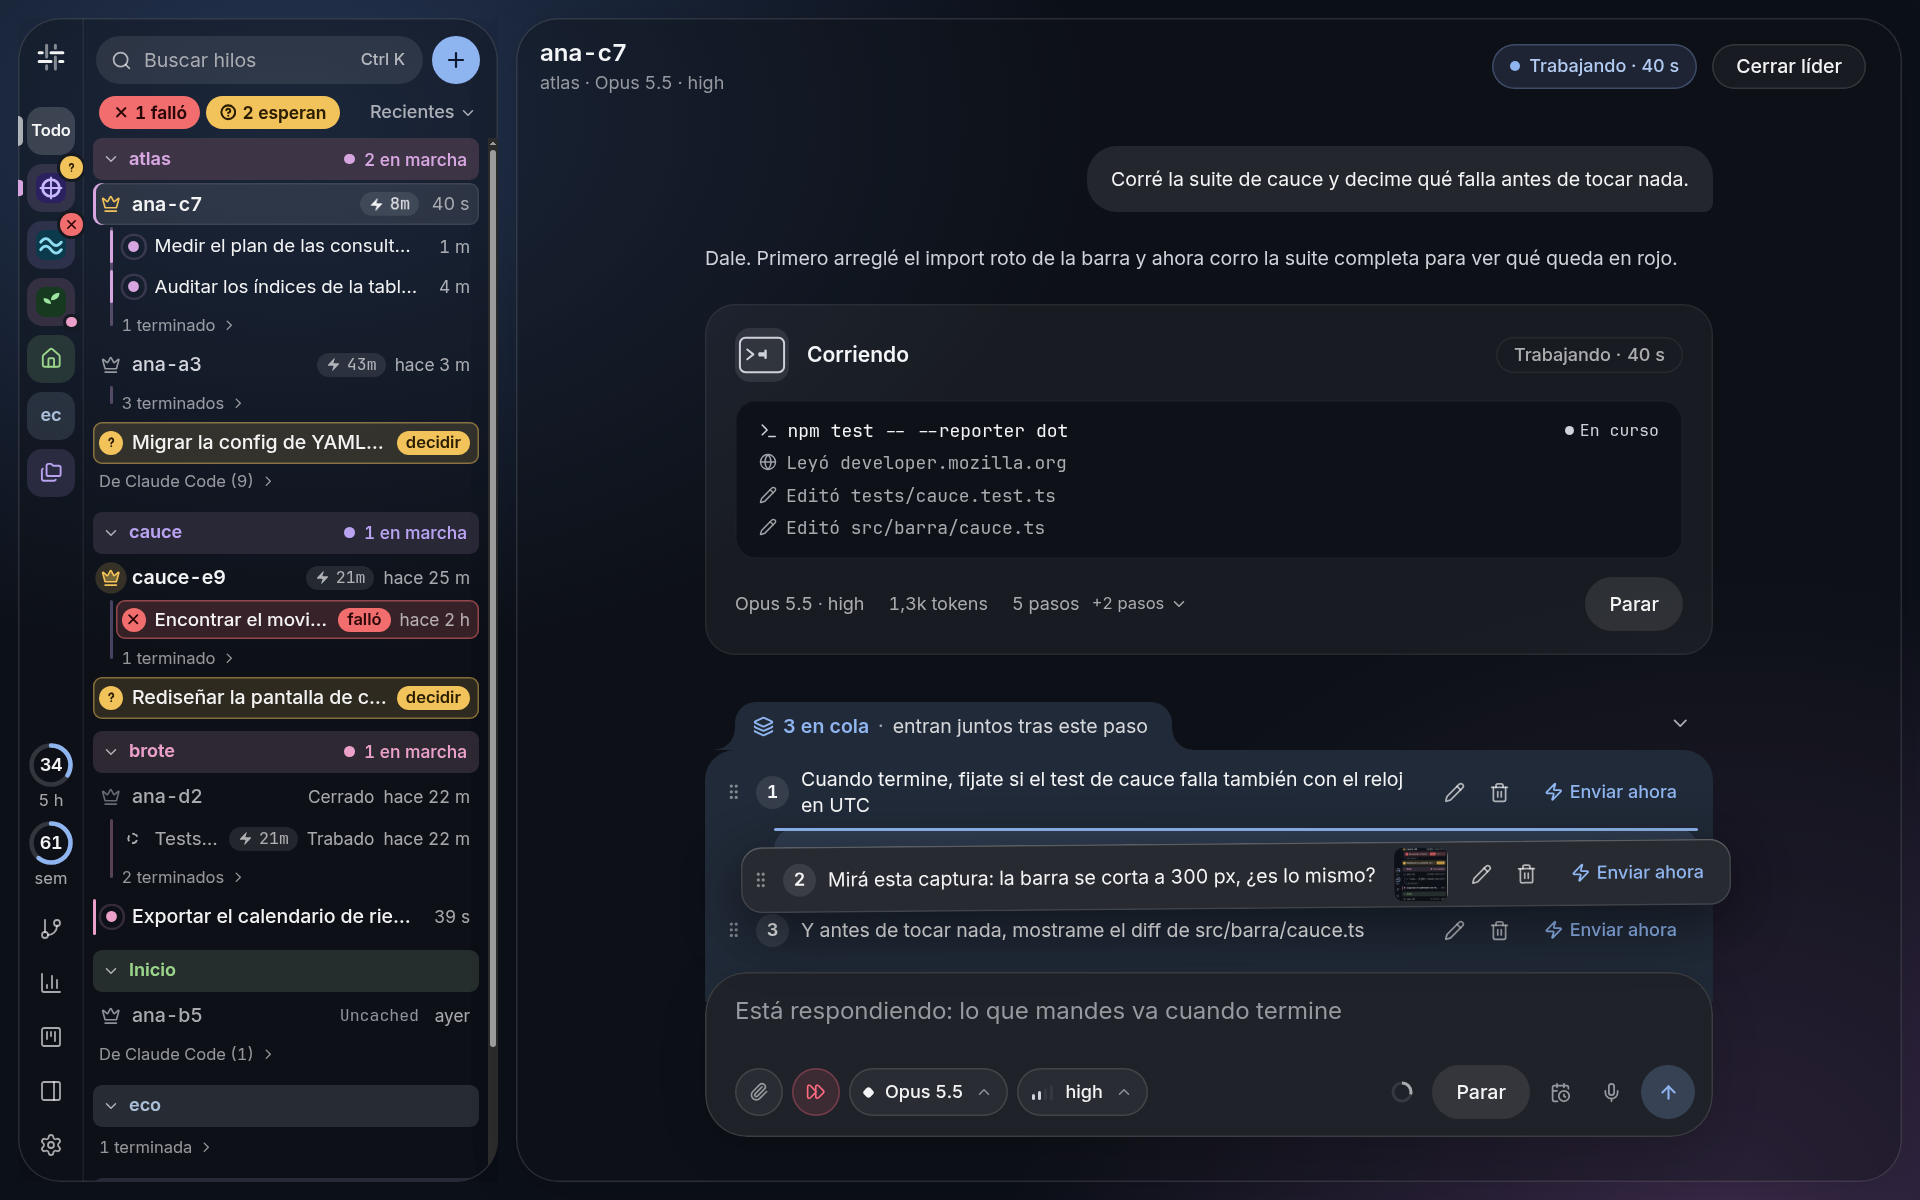
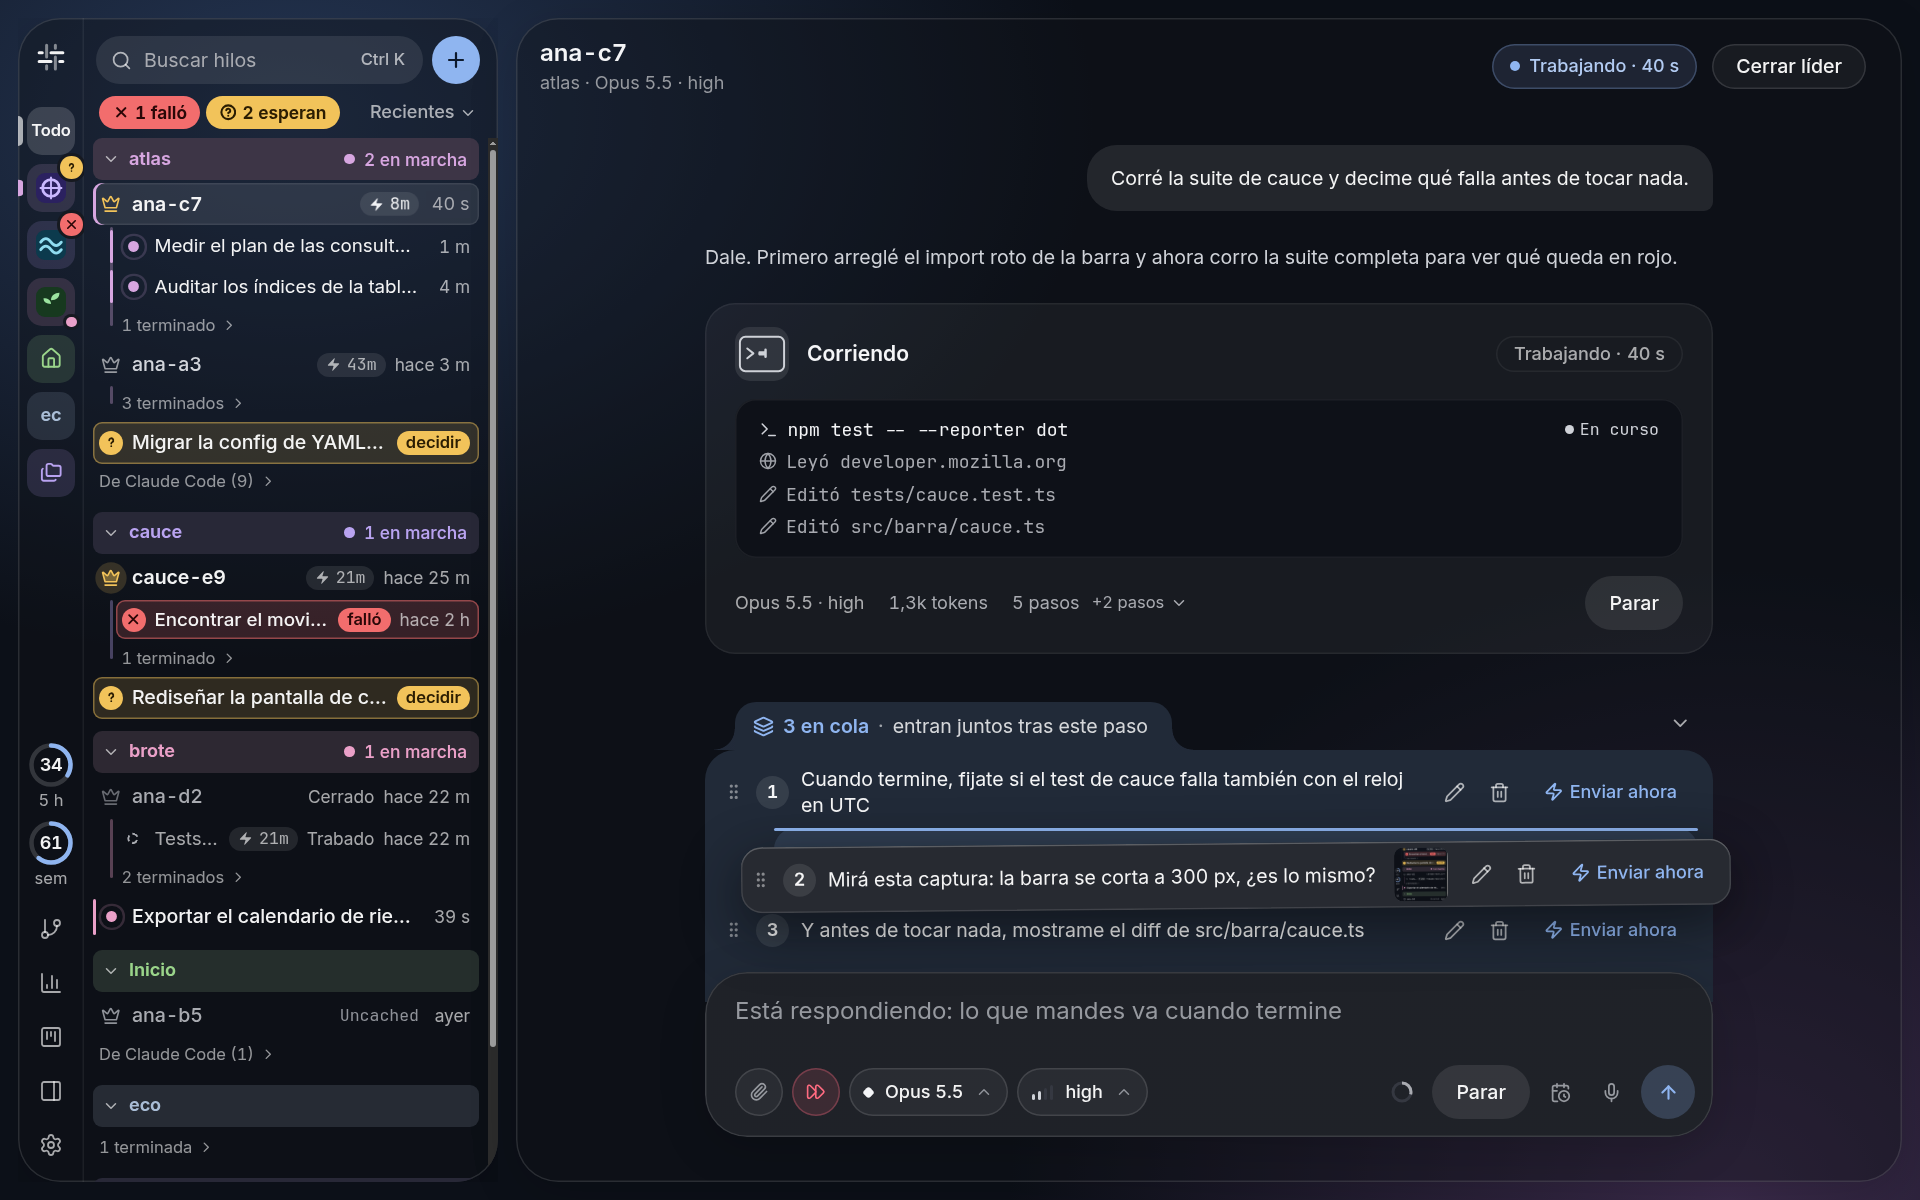
maquetas: mensajes en cola, sección en el LEEME y ajuste de la miniatura ampliada

diff --git a/app/maquetas/rediseno-0.4/cola-mensajes-recursos/bandejas.css b/app/maquetas/rediseno-0.4/cola-mensajes-recursos/bandejas.css
@@ -68,7 +68,7 @@ html, body { height: 100%; margin: 0; overflow: hidden; }
 .a-alzada { position: absolute; left: 1.5rem; right: -0.75rem; top: 3.875rem; z-index: 3; }
 .a-fila[data-alza] { background: var(--sup-3); box-shadow: var(--popover-luz), var(--popover-sombra); transform: rotate(-0.5deg); }
 .a-visor { position: absolute; inset: 0; z-index: 9; display: grid; place-items: center; background: var(--velo); }
-.a-visor img { max-width: 44rem; max-height: 44rem; width: 28rem; border-radius: var(--r-md); box-shadow: var(--popover-luz), var(--popover-sombra); }
+.a-visor img { width: 20rem; border-radius: var(--r-md); box-shadow: var(--popover-luz), var(--popover-sombra); }
 .a-visor .cm-ic { position: absolute; top: 1.25rem; right: 1.25rem; width: 2.25rem; height: 2.25rem; background: var(--capa-tile); color: var(--blanco); }
 
 /* ========== B, Hilván ========== */
@@ -125,7 +125,7 @@ html, body { height: 100%; margin: 0; overflow: hidden; }
 .b-mazo > .b-nudo { bottom: var(--esp-2); }
 .b-hueco { position: relative; width: 26rem; height: 3.25rem; border-radius: var(--r-lg) var(--r-lg) var(--r-xs) var(--r-lg); box-shadow: inset 0 0 0 2px color-mix(in srgb, var(--acento) 55%, transparent); background: color-mix(in srgb, var(--acento) 8%, transparent); }
 .b-nudo[data-fantasma] { background: var(--sup-0); color: var(--acento); box-shadow: inset 0 0 0 2px var(--acento); bottom: 0.875rem; }
-.b-alzada { position: absolute; right: calc(var(--b-x) + 6.5rem); top: 7.75rem; z-index: 4; width: 27rem; }
+.b-alzada { position: absolute; right: calc(var(--b-x) + 5.5rem); top: 7.75rem; z-index: 4; width: 30rem; }
 .b-ficha[data-alza] { max-width: none; transform: rotate(-1.1deg); }
 .b-ficha[data-alza] .b-burbuja { background: var(--sup-3); box-shadow: var(--popover-luz), var(--popover-sombra); }
 .b-ficha[data-alza] .b-nudo { right: auto; left: -0.5rem; bottom: auto; top: -0.5rem; }
@@ -135,9 +135,9 @@ html, body { height: 100%; margin: 0; overflow: hidden; }
 .b-pop .a-conf-acc { justify-content: flex-end; margin-top: var(--esp-3); }
 .b .tv-vivo[data-corta] { color: var(--decision-texto); }
 .tv-vivo[data-corta]::before { background: var(--aviso) !important; }
-.b-lamina { position: absolute; z-index: 5; right: calc(var(--b-x) + 1.375rem); bottom: 8.25rem; width: 16.5rem; padding: var(--esp-1-5); border-radius: var(--r-lg); background: var(--popover-fondo); box-shadow: var(--popover-luz), var(--popover-sombra); backdrop-filter: var(--popover-desenfoque); }
+.b-lamina { position: absolute; z-index: 5; right: calc(var(--b-x) + 5rem); bottom: 9.5rem; width: 16.5rem; padding: var(--esp-1-5); border-radius: var(--r-lg); background: var(--popover-fondo); box-shadow: var(--popover-luz), var(--popover-sombra); backdrop-filter: var(--popover-desenfoque); }
 .b-lamina img { display: block; width: 100%; border-radius: var(--r-md); }
-.b-lamina .cm-ic { position: absolute; top: var(--esp-3); right: var(--esp-3); background: var(--vidrio-opaco); color: var(--texto); }
+.b-lamina .cm-ic { position: absolute; top: -0.625rem; right: -0.625rem; background: var(--sup-3); color: var(--texto); box-shadow: var(--popover-luz); }
 
 /* El tiempo de la fila en la captura de la barra, puesto al día con el del estado. */
 .cm-tiempo-barra { position: absolute; left: 17.75rem; top: 7.9375rem; width: 1.8125rem; white-space: nowrap; height: 1.125rem; display: grid; place-items: center end; font-size: var(--letra-4); color: var(--txt-3); font-variant-numeric: tabular-nums; background: var(--cm-fila); }

diff --git a/app/maquetas/rediseno-0.4/LEEME.md b/app/maquetas/rediseno-0.4/LEEME.md
@@ -82,3 +82,13 @@ Pintadas con el CSS compilado de la app (sus tokens, Inter y JetBrains Mono) y c
 - **B, Hilo**: lo que manda es la lista. Plano abierto a la izquierda, sin tarjeta, con un reloj grande del paso, una tira finita (10 px) y la lista como un hilo vertical del color de cada tipo: puntos chicos para leer y correr, nodos llenos para ediciones, commits y errores, y lo pensado como un nudo sobre el hilo. Cada fila lleva abajo una hebra a la misma altura y del mismo largo que su tramo en la tira, así la lista se lee también como cascada. A la derecha, el panel de salida ocupa toda la altura, como una terminal, con el grep agrupado por archivo. «Sólo cambios» es un interruptor. Es la que deja leer la historia de corrido; la tira dice menos por sí sola.
 
 Regenerar, desde `app/` y con el build de la interfaz hecho (`npx vite build`): `node_modules/electron/dist/electron --user-data-dir=/tmp/wv maquetas/rediseno-0.4/worker-vista-fuente/generar.cjs [filtro]`. Sale a 2160×1350 (1440×900 con zoom 1,5). Los tooltips son el estado de pasar el mouse sobre un tramo; el movimiento (el tramo vivo que late, el spinner) no se ve en el PNG.
+## Mensajes en cola
+
+Dos propuestas para la cola de un líder, con los seis puntos aprobados: bandeja pegada sobre la caja (el mensaje recién pasa al chat cuando entra); Editar, Borrar y «Enviar ahora» con confirmación; orden `1`, `2`, `3`, arrastrable, y plegada a «3 en cola»; el estado en palabras, con «Esperando un comando largo · 3 m» y Parar pasados 2 min; nada se pierde (rojo con «Reintentar» y «Sigue guardado»); miniatura chica con clic para ampliar y el texto primero. La barra de la izquierda es una captura de la app, y el encabezado, la tarjeta de trabajo y la caja son su HTML real: lo nuevo es sólo la bandeja. La tarjeta es la de hoy: las dos propuestas sirven con la que salga de `status-trabajando-*`, y comparten con ella las puntadas, el ámbar que se afloja y el hilo cortado en coral.
+
+Lo encolado sale todo junto (`juntar`, ver `AGENTS.md`): por eso con varios el estado dice «entran juntos» y «Enviar ahora» corta el paso y manda todos, en orden, no sólo ese. Un fallo frena la cola entera (`libre` no sigue con un error): los demás dicen «Espera al 1». Los motores sin entrega a mitad de turno dirían «entra al terminar el turno» en vez de «tras este paso».
+
+Estados de cada una, en oscuro: `uno`, `tres`, `colapsada`, `comando-largo`, `fallo`, `confirmar`, más dos que muestran los puntos 4 y 7: `arrastrando` y `miniatura`. `claro` es `tres` en el tema claro e `ingles` es `confirmar` en inglés. Se rehacen con `cola-mensajes-recursos/render.cjs` (instrucciones en su encabezado).
+
+- **A, Solapa** (`cola-mensajes-a-*.png`): una carpeta de la que asoma la caja. La pestaña dice el estado y su color tiñe toda la hoja (celeste, ámbar, coral). Filas de una o dos líneas con las acciones al costado y la confirmación abierta ahí mismo, debajo del mensaje. Es la más compacta y la que menos cambia la caja; entran más mensajes antes de plegar, y se parece más a una lista que a una conversación.
+- **B, Hilván** (`cola-mensajes-b-*.png`): cada mensaje es una burbuja como la que va a quedar en el chat, hilvanada con un nudo numerado a un hilo punteado que sale del botón de enviar y sube hasta la tarjeta del paso en curso. Sin novedades las puntadas se aflojan en ámbar; un fallo corta el hilo y lo de abajo queda gris; confirmar marca con una tijera dónde se corta y el comando dice «Se corta». Plegada es un mazo de burbujas. Es la que más cuenta qué va a pasar y la que tiene más identidad; ocupa más alto por mensaje y se pliega antes.
